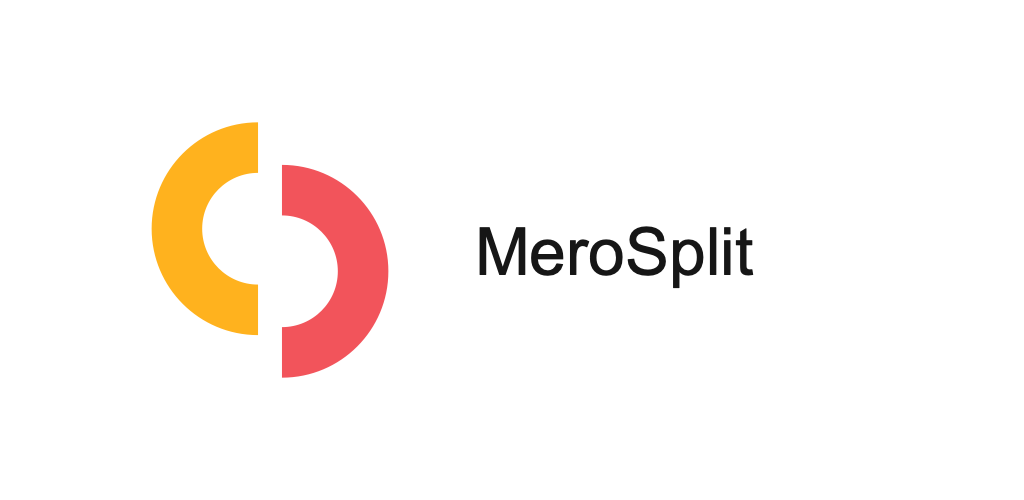
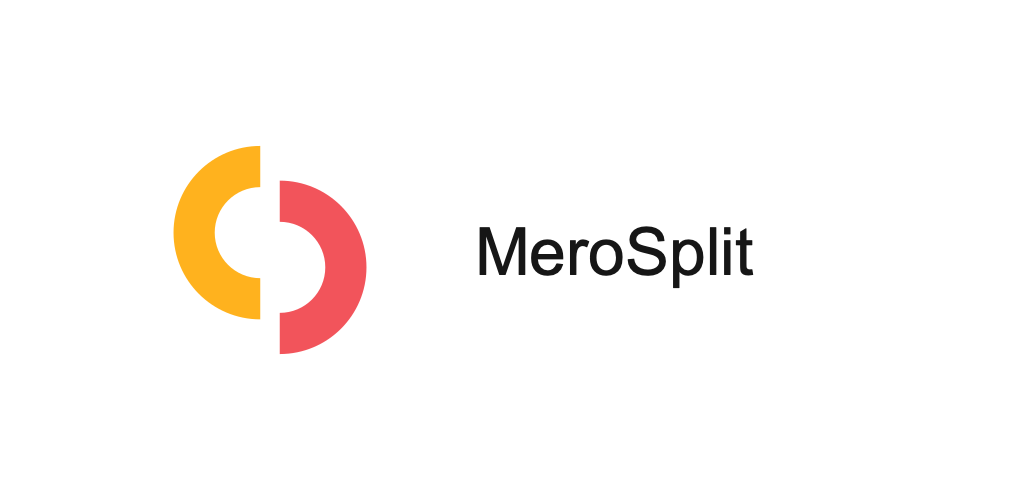
Propagate updated Inkscape branding (#215)

Changed region(s): [[0.125, 0.24, 0.4062, 0.75], [0.25, 0.42, 0.3125, 0.48]]

diff --git a/apps/api/ledger/test_homepage.py b/apps/api/ledger/test_homepage.py
@@ -90,11 +90,17 @@ def test_public_crawl_hints_list_canonical_pages_and_exclude_private_app_routes(
 
 def test_brand_assets_are_exact_existing_images_and_unknown_paths_are_not_served():
     browser = Client()
-    for public, native in [("merosplit-icon.png", "icon.png"), ("favicon.png", "favicon.png"), ("apple-touch-icon.png", None), ("merosplit-logo.svg", "brand/merosplit-logo.svg")]:
+    root = settings.BASE_DIR.parent.parent
+    expected_assets = {
+        "merosplit-icon.png": root / "store-assets/app-store/icon-1024.png",
+        "favicon.png": root / "apps/mobile/assets/favicon.png",
+        "apple-touch-icon.png": settings.BASE_DIR / "ledger/assets/apple-touch-icon.png",
+        "merosplit-logo.svg": root / "apps/mobile/assets/brand/merosplit-logo.svg",
+    }
+    for public, expected in expected_assets.items():
         response = browser.get(f"/assets/{public}")
         assert response.status_code == 200 and response["Content-Type"] == ("image/svg+xml" if public.endswith(".svg") else "image/png")
         assert response["X-Content-Type-Options"] == "nosniff"
-        expected = settings.BASE_DIR.parent / "mobile/assets" / native if native else settings.BASE_DIR / "ledger/assets" / public
         assert b"".join(response.streaming_content) == expected.read_bytes()
     assert public_asset(RequestFactory().get("/"), "../config/settings.py").status_code == 404
     assert browser.get("/assets/missing.js").status_code == 404

diff --git a/apps/api/ledger/test_email_delivery.py b/apps/api/ledger/test_email_delivery.py
@@ -64,7 +64,7 @@ def test_resend_boundary_sends_both_parts_inline_logo_headers_and_final_sender(s
     assert payload["from"] == settings.DEFAULT_FROM_EMAIL and payload["reply_to"] == settings.EMAIL_REPLY_TO
     logo, = payload["attachments"]
     assert logo["content_id"] == "merosplit-logo" and logo["content_type"] == "image/png"
[2 lines of base64/hex data omitted]
 
 
 def test_provider_errors_never_expose_provider_body_key_or_recipient(settings, monkeypatch):
